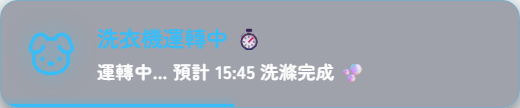
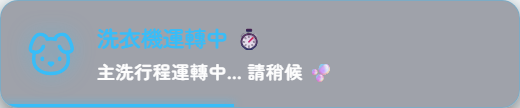
feat(tv): add washer sub-stages and warning HUDs to design system

Changed region(s): [[0.1846, 0.5833, 0.7077, 0.75]]

diff --git a/render_all_huds.py b/render_all_huds.py
@@ -20,12 +20,52 @@ scenarios = [
         'progress': '100%'
     },
     {
+        'id': 'washer_prewash',
+        'title': '洗衣機預洗中 🫧',
+        'msg': '預洗浸泡處理中... 請稍候 ✨',
+        'accent': '#38bdf8',
+        'icon_color': '#38bdf8',
+        'progress': '15%'
+    },
+    {
         'id': 'washer_running',
         'title': '洗衣機運轉中 ⏱',
-        'msg': '運轉中... 預計 15:45 洗滌完成 🫧',
+        'msg': '主洗行程運轉中... 請稍候 🫧',
         'accent': '#38bdf8',
         'icon_color': '#38bdf8',
         'progress': '45%'
+    },
+    {
+        'id': 'washer_rinsing',
+        'title': '洗衣機漂洗中 💧',
+        'msg': '深層清水洗清中... 請稍候 ✨',
+        'accent': '#38bdf8',
+        'icon_color': '#38bdf8',
+        'progress': '70%'
+    },
+    {
+        'id': 'washer_spinning',
+        'title': '洗衣機脫水中 🌀',
+        'msg': '高速離心脫水中... 請稍候 💨',
+        'accent': '#38bdf8',
+        'icon_color': '#38bdf8',
+        'progress': '85%'
+    },
+    {
+        'id': 'washer_drying',
+        'title': '洗衣機烘乾中 ♨',
+        'msg': '溫風除濕烘乾中... 請稍候 ✨',
+        'accent': '#fb923c',
+        'icon_color': '#fb923c',
+        'progress': '90%'
+    },
+    {
+        'id': 'washer_warning',
+        'title': '洗衣狀態待確認 ⚠',
+        'msg': '未收到正式完成事件，請查看 LG ThinQ App 📱',
+        'accent': '#fbbf24',
+        'icon_color': '#fbbf24',
+        'progress': '90%'
     },
     {
         'id': 'dryer_done',
